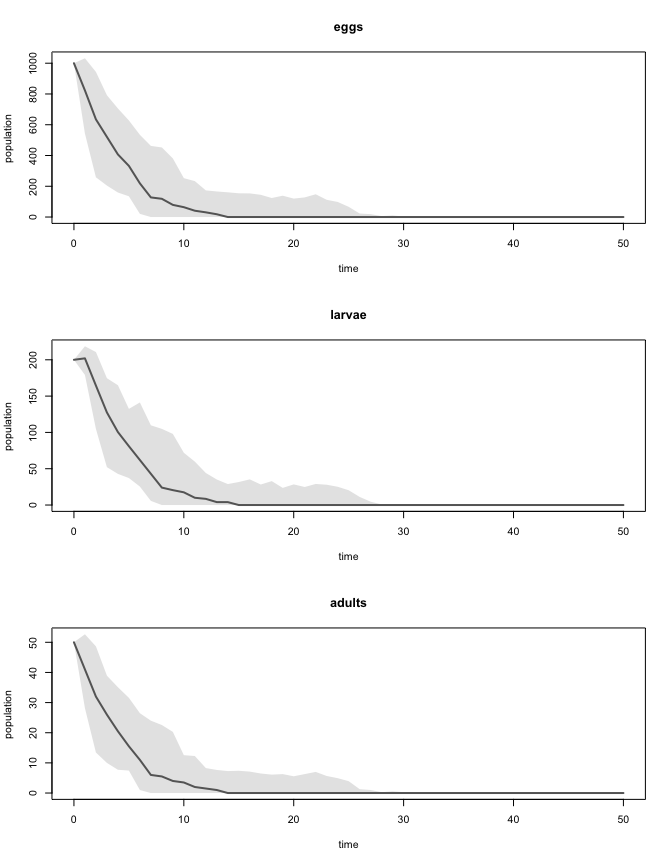
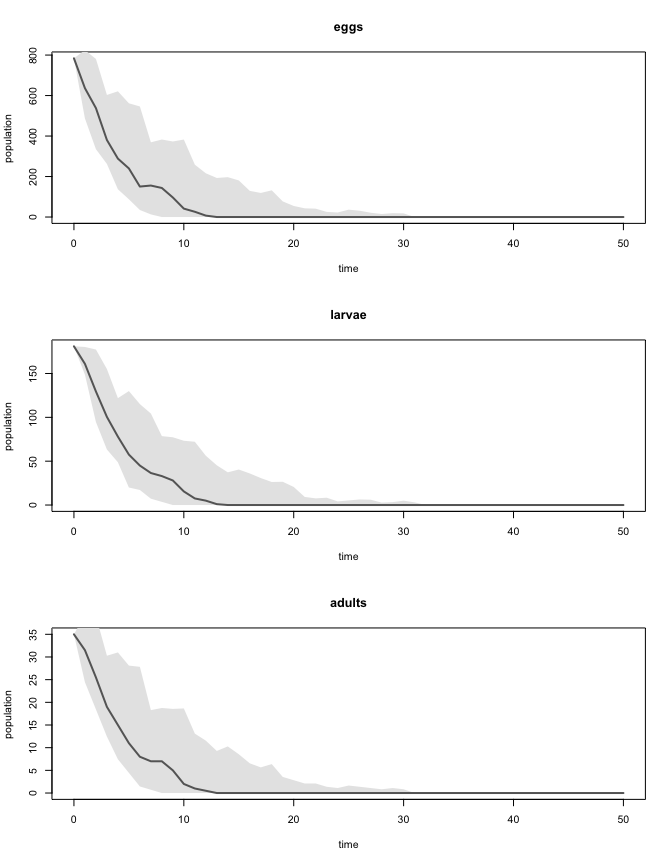
updating the readme with deterministic analysis & a few other tweaks

diff --git a/readme.md b/readme.md
@@ -73,26 +73,36 @@ plot(all)
 
 #### Doing things with models
 
-We can convert any of these objects into transition matrices, and gaze at them lovingly:
+We can convert any of these objects into transition matrices, and analyse them deterministically using functions from other matrix population model packages, like `popbio` and `popdemo`:
 
 ``` r
-as.matrix(all)
+A <- as.matrix(all)
+
+# estimate the intrinsic growth rate & stable stage distribution
+popbio::lambda(A)
 ```
 
-    ##        eggs larvae adults
-    ## eggs    0.4    0.0   20.0
-    ## larvae  0.5    0.3    0.0
-    ## adults  0.0    0.2    0.8
-    ## attr(,"class")
-    ## [1] "matrix"            "transition_matrix"
+    ## [1] 1.105935
 
-In the near future deterministic analysis methods for these transition matrices will be made available too.
+``` r
+(ss <- popbio::stable.stage(A))
+```
 
-`pop` also provides the function `simulation` to carry out discrete-time stochastic simulations of models:
+    ##       eggs     larvae     adults 
+    ## 0.78353880 0.18096945 0.03549176
+
+``` r
+# plot predicted deterministic trajectory
+plot(popdemo::project(A, ss * 1000, time = 50))
+```
+
+![](readme_files/figure-markdown_github/popdemo-1.png)<!-- -->
+
+We can also use the function `simulation` to carry out discrete-time stochastic simulations from dynamic objects:
 
 ``` r
 # define the starting population as a named integer vector
-population <- c(eggs = 1000, larvae = 200, adults = 50)
+population <- round(ss * 1000)
 
 # simulate 30 times for 50 generations each
 sim <- simulation(dynamic = all,
